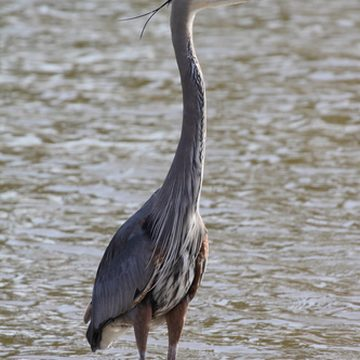
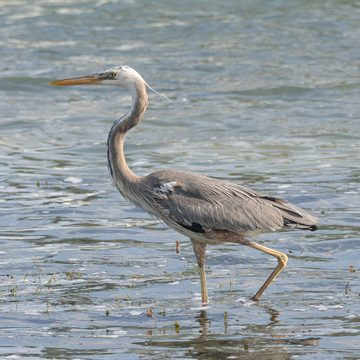
Heron: a photo with the whole bird in frame, and the drawing pulled in so the beak fits the circle

diff --git a/src/components/characters/xml.ts b/src/components/characters/xml.ts
@@ -746,21 +746,21 @@ export const characterXml: Record<string, CharacterFrame[]> = {
   "great-blue-heron": [
     {
       "mood": "hello",
-      "open": "<svg xmlns=\"http://www.w3.org/2000/svg\" viewBox=\"0 0 400 400\"><rect width=\"400\" height=\"400\" fill=\"#FFE3EC\"/><g transform=\"rotate(0 200 220)\"><path d=\"M222 276 L214 346 M252 278 L258 346\" stroke=\"#1A1A2E\" stroke-width=\"16\" stroke-linecap=\"round\"/> <path d=\"M222 276 L214 346 M252 278 L258 346\" stroke=\"#8A7356\" stroke-width=\"7\" stroke-linecap=\"round\"/> <g transform=\"translate(9,9)\" fill=\"#1A1A2E\" stroke=\"#1A1A2E\" stroke-width=\"10\"><path d=\"M336 226 L386 252 L344 262 Z\"/><path d=\"M150 222 C150 182 210 162 270 168 C330 174 362 208 352 242 C342 272 292 286 232 282 C182 278 150 256 150 222 Z\"/><ellipse cx=\"128\" cy=\"92\" rx=\"40\" ry=\"30\"/></g> <g fill=\"#5E6E8E\" stroke=\"#1A1A2E\" stroke-width=\"10\" stroke-linejoin=\"round\" stroke-linecap=\"round\"><path d=\"M336 226 L386 252 L344 262 Z\"/></g> <g fill=\"#7D8FAE\" stroke=\"#1A1A2E\" stroke-width=\"10\" stroke-linejoin=\"round\" stroke-linecap=\"round\"><path d=\"M150 222 C150 182 210 162 270 168 C330 174 362 208 352 242 C342 272 292 286 232 282 C182 278 150 256 150 222 Z\"/></g> <path d=\"M210 196 C256 182 312 190 340 222 C306 246 252 248 214 236 Z\" fill=\"#5E6E8E\"/> <path d=\"M170 236 C176 252 186 262 200 268 M184 232 C190 248 200 258 214 264\" fill=\"none\" stroke=\"#C9D3E3\" stroke-width=\"7\" stroke-linecap=\"round\"/> <path d=\"M176 210 C138 176 172 136 152 108\" fill=\"none\" stroke=\"#1A1A2E\" stroke-width=\"38\" stroke-linecap=\"round\"/> <path d=\"M176 210 C138 176 172 136 152 108\" fill=\"none\" stroke=\"#B8C3D6\" stroke-width=\"22\" stroke-linecap=\"round\"/> <path d=\"M160 196 C148 180 150 160 156 144\" fill=\"none\" stroke=\"#5E4A3A\" stroke-width=\"5\" stroke-linecap=\"round\" stroke-dasharray=\"8 8\"/> <g fill=\"#F4F2F0\" stroke=\"#1A1A2E\" stroke-width=\"10\" stroke-linejoin=\"round\" stroke-linecap=\"round\"><ellipse cx=\"128\" cy=\"92\" rx=\"40\" ry=\"30\"/></g> <path d=\"M108 74 C130 66 160 70 168 82 C150 82 130 82 112 86 Z\" fill=\"#1A1A2E\"/> <path d=\"M160 80 C186 78 210 86 228 100\" fill=\"none\" stroke=\"#1A1A2E\" stroke-width=\"7\" stroke-linecap=\"round\"/> <circle cx=\"118\" cy=\"92\" r=\"21\" fill=\"#F2E28C\" stroke=\"#1A1A2E\" stroke-width=\"6\"/><circle cx=\"118\" cy=\"92\" r=\"12\" fill=\"#1A1A2E\"/><circle cx=\"113.8\" cy=\"87.44\" r=\"4.08\" fill=\"#fff\"/><circle cx=\"122.56\" cy=\"96.2\" r=\"1.92\" fill=\"#fff\"/> <ellipse cx=\"140\" cy=\"108\" rx=\"12\" ry=\"7\" fill=\"#FF6B9A\"/> <path d=\"M96 88 C80 86 46 92 8 102 C46 108 80 108 98 102 Z\" fill=\"#F2C94C\" stroke=\"#1A1A2E\" stroke-width=\"7\" stroke-linejoin=\"round\"/> <path d=\"M-10 330 Q40 318 90 330 T190 330 T290 330 T390 330 T490 330 V420 H-10 Z\" fill=\"#8FB3E8\" stroke=\"#1A1A2E\" stroke-width=\"8\"/> <path d=\"M60 360 q20 -10 40 0 M260 366 q20 -10 40 0\" fill=\"none\" stroke=\"#F7F5F2\" stroke-width=\"6\" stroke-linecap=\"round\"/> </g></svg>",
-      "shut": "<svg xmlns=\"http://www.w3.org/2000/svg\" viewBox=\"0 0 400 400\"><rect width=\"400\" height=\"400\" fill=\"#FFE3EC\"/><g transform=\"rotate(0 200 220)\"><path d=\"M222 276 L214 346 M252 278 L258 346\" stroke=\"#1A1A2E\" stroke-width=\"16\" stroke-linecap=\"round\"/> <path d=\"M222 276 L214 346 M252 278 L258 346\" stroke=\"#8A7356\" stroke-width=\"7\" stroke-linecap=\"round\"/> <g transform=\"translate(9,9)\" fill=\"#1A1A2E\" stroke=\"#1A1A2E\" stroke-width=\"10\"><path d=\"M336 226 L386 252 L344 262 Z\"/><path d=\"M150 222 C150 182 210 162 270 168 C330 174 362 208 352 242 C342 272 292 286 232 282 C182 278 150 256 150 222 Z\"/><ellipse cx=\"128\" cy=\"92\" rx=\"40\" ry=\"30\"/></g> <g fill=\"#5E6E8E\" stroke=\"#1A1A2E\" stroke-width=\"10\" stroke-linejoin=\"round\" stroke-linecap=\"round\"><path d=\"M336 226 L386 252 L344 262 Z\"/></g> <g fill=\"#7D8FAE\" stroke=\"#1A1A2E\" stroke-width=\"10\" stroke-linejoin=\"round\" stroke-linecap=\"round\"><path d=\"M150 222 C150 182 210 162 270 168 C330 174 362 208 352 242 C342 272 292 286 232 282 C182 278 150 256 150 222 Z\"/></g> <path d=\"M210 196 C256 182 312 190 340 222 C306 246 252 248 214 236 Z\" fill=\"#5E6E8E\"/> <path d=\"M170 236 C176 252 186 262 200 268 M184 232 C190 248 200 258 214 264\" fill=\"none\" stroke=\"#C9D3E3\" stroke-width=\"7\" stroke-linecap=\"round\"/> <path d=\"M176 210 C138 176 172 136 152 108\" fill=\"none\" stroke=\"#1A1A2E\" stroke-width=\"38\" stroke-linecap=\"round\"/> <path d=\"M176 210 C138 176 172 136 152 108\" fill=\"none\" stroke=\"#B8C3D6\" stroke-width=\"22\" stroke-linecap=\"round\"/> <path d=\"M160 196 C148 180 150 160 156 144\" fill=\"none\" stroke=\"#5E4A3A\" stroke-width=\"5\" stroke-linecap=\"round\" stroke-dasharray=\"8 8\"/> <g fill=\"#F4F2F0\" stroke=\"#1A1A2E\" stroke-width=\"10\" stroke-linejoin=\"round\" stroke-linecap=\"round\"><ellipse cx=\"128\" cy=\"92\" rx=\"40\" ry=\"30\"/></g> <path d=\"M108 74 C130 66 160 70 168 82 C150 82 130 82 112 86 Z\" fill=\"#1A1A2E\"/> <path d=\"M160 80 C186 78 210 86 228 100\" fill=\"none\" stroke=\"#1A1A2E\" stroke-width=\"7\" stroke-linecap=\"round\"/> <circle cx=\"118\" cy=\"92\" r=\"22\" fill=\"#F4F2F0\"/><path d=\"M106 94 Q118 102.4 130 94\" fill=\"none\" stroke=\"#1A1A2E\" stroke-width=\"6\" stroke-linecap=\"round\"/> <ellipse cx=\"140\" cy=\"108\" rx=\"12\" ry=\"7\" fill=\"#FF6B9A\"/> <path d=\"M96 88 C80 86 46 92 8 102 C46 108 80 108 98 102 Z\" fill=\"#F2C94C\" stroke=\"#1A1A2E\" stroke-width=\"7\" stroke-linejoin=\"round\"/> <path d=\"M-10 330 Q40 318 90 330 T190 330 T290 330 T390 330 T490 330 V420 H-10 Z\" fill=\"#8FB3E8\" stroke=\"#1A1A2E\" stroke-width=\"8\"/> <path d=\"M60 360 q20 -10 40 0 M260 366 q20 -10 40 0\" fill=\"none\" stroke=\"#F7F5F2\" stroke-width=\"6\" stroke-linecap=\"round\"/> </g></svg>"
+      "open": "<svg xmlns=\"http://www.w3.org/2000/svg\" viewBox=\"0 0 400 400\"><rect width=\"400\" height=\"400\" fill=\"#FFE3EC\"/><g transform=\"rotate(0 200 220)\"><g transform=\"translate(44 38) scale(0.84)\"> <path d=\"M222 276 L214 346 M252 278 L258 346\" stroke=\"#1A1A2E\" stroke-width=\"16\" stroke-linecap=\"round\"/> <path d=\"M222 276 L214 346 M252 278 L258 346\" stroke=\"#8A7356\" stroke-width=\"7\" stroke-linecap=\"round\"/> <g transform=\"translate(9,9)\" fill=\"#1A1A2E\" stroke=\"#1A1A2E\" stroke-width=\"10\"><path d=\"M336 226 L386 252 L344 262 Z\"/><path d=\"M150 222 C150 182 210 162 270 168 C330 174 362 208 352 242 C342 272 292 286 232 282 C182 278 150 256 150 222 Z\"/><ellipse cx=\"128\" cy=\"92\" rx=\"40\" ry=\"30\"/></g> <g fill=\"#5E6E8E\" stroke=\"#1A1A2E\" stroke-width=\"10\" stroke-linejoin=\"round\" stroke-linecap=\"round\"><path d=\"M336 226 L386 252 L344 262 Z\"/></g> <g fill=\"#7D8FAE\" stroke=\"#1A1A2E\" stroke-width=\"10\" stroke-linejoin=\"round\" stroke-linecap=\"round\"><path d=\"M150 222 C150 182 210 162 270 168 C330 174 362 208 352 242 C342 272 292 286 232 282 C182 278 150 256 150 222 Z\"/></g> <path d=\"M210 196 C256 182 312 190 340 222 C306 246 252 248 214 236 Z\" fill=\"#5E6E8E\"/> <path d=\"M170 236 C176 252 186 262 200 268 M184 232 C190 248 200 258 214 264\" fill=\"none\" stroke=\"#C9D3E3\" stroke-width=\"7\" stroke-linecap=\"round\"/> <path d=\"M176 210 C138 176 172 136 152 108\" fill=\"none\" stroke=\"#1A1A2E\" stroke-width=\"38\" stroke-linecap=\"round\"/> <path d=\"M176 210 C138 176 172 136 152 108\" fill=\"none\" stroke=\"#B8C3D6\" stroke-width=\"22\" stroke-linecap=\"round\"/> <path d=\"M160 196 C148 180 150 160 156 144\" fill=\"none\" stroke=\"#5E4A3A\" stroke-width=\"5\" stroke-linecap=\"round\" stroke-dasharray=\"8 8\"/> <g fill=\"#F4F2F0\" stroke=\"#1A1A2E\" stroke-width=\"10\" stroke-linejoin=\"round\" stroke-linecap=\"round\"><ellipse cx=\"128\" cy=\"92\" rx=\"40\" ry=\"30\"/></g> <path d=\"M108 74 C130 66 160 70 168 82 C150 82 130 82 112 86 Z\" fill=\"#1A1A2E\"/> <path d=\"M160 80 C186 78 210 86 228 100\" fill=\"none\" stroke=\"#1A1A2E\" stroke-width=\"7\" stroke-linecap=\"round\"/> <circle cx=\"118\" cy=\"92\" r=\"21\" fill=\"#F2E28C\" stroke=\"#1A1A2E\" stroke-width=\"6\"/><circle cx=\"118\" cy=\"92\" r=\"12\" fill=\"#1A1A2E\"/><circle cx=\"113.8\" cy=\"87.44\" r=\"4.08\" fill=\"#fff\"/><circle cx=\"122.56\" cy=\"96.2\" r=\"1.92\" fill=\"#fff\"/> <ellipse cx=\"140\" cy=\"108\" rx=\"12\" ry=\"7\" fill=\"#FF6B9A\"/> <path d=\"M96 88 C80 86 46 92 8 102 C46 108 80 108 98 102 Z\" fill=\"#F2C94C\" stroke=\"#1A1A2E\" stroke-width=\"7\" stroke-linejoin=\"round\"/> </g> <path d=\"M-10 330 Q40 318 90 330 T190 330 T290 330 T390 330 T490 330 V420 H-10 Z\" fill=\"#8FB3E8\" stroke=\"#1A1A2E\" stroke-width=\"8\"/> <path d=\"M60 360 q20 -10 40 0 M260 366 q20 -10 40 0\" fill=\"none\" stroke=\"#F7F5F2\" stroke-width=\"6\" stroke-linecap=\"round\"/> </g></svg>",
+      "shut": "<svg xmlns=\"http://www.w3.org/2000/svg\" viewBox=\"0 0 400 400\"><rect width=\"400\" height=\"400\" fill=\"#FFE3EC\"/><g transform=\"rotate(0 200 220)\"><g transform=\"translate(44 38) scale(0.84)\"> <path d=\"M222 276 L214 346 M252 278 L258 346\" stroke=\"#1A1A2E\" stroke-width=\"16\" stroke-linecap=\"round\"/> <path d=\"M222 276 L214 346 M252 278 L258 346\" stroke=\"#8A7356\" stroke-width=\"7\" stroke-linecap=\"round\"/> <g transform=\"translate(9,9)\" fill=\"#1A1A2E\" stroke=\"#1A1A2E\" stroke-width=\"10\"><path d=\"M336 226 L386 252 L344 262 Z\"/><path d=\"M150 222 C150 182 210 162 270 168 C330 174 362 208 352 242 C342 272 292 286 232 282 C182 278 150 256 150 222 Z\"/><ellipse cx=\"128\" cy=\"92\" rx=\"40\" ry=\"30\"/></g> <g fill=\"#5E6E8E\" stroke=\"#1A1A2E\" stroke-width=\"10\" stroke-linejoin=\"round\" stroke-linecap=\"round\"><path d=\"M336 226 L386 252 L344 262 Z\"/></g> <g fill=\"#7D8FAE\" stroke=\"#1A1A2E\" stroke-width=\"10\" stroke-linejoin=\"round\" stroke-linecap=\"round\"><path d=\"M150 222 C150 182 210 162 270 168 C330 174 362 208 352 242 C342 272 292 286 232 282 C182 278 150 256 150 222 Z\"/></g> <path d=\"M210 196 C256 182 312 190 340 222 C306 246 252 248 214 236 Z\" fill=\"#5E6E8E\"/> <path d=\"M170 236 C176 252 186 262 200 268 M184 232 C190 248 200 258 214 264\" fill=\"none\" stroke=\"#C9D3E3\" stroke-width=\"7\" stroke-linecap=\"round\"/> <path d=\"M176 210 C138 176 172 136 152 108\" fill=\"none\" stroke=\"#1A1A2E\" stroke-width=\"38\" stroke-linecap=\"round\"/> <path d=\"M176 210 C138 176 172 136 152 108\" fill=\"none\" stroke=\"#B8C3D6\" stroke-width=\"22\" stroke-linecap=\"round\"/> <path d=\"M160 196 C148 180 150 160 156 144\" fill=\"none\" stroke=\"#5E4A3A\" stroke-width=\"5\" stroke-linecap=\"round\" stroke-dasharray=\"8 8\"/> <g fill=\"#F4F2F0\" stroke=\"#1A1A2E\" stroke-width=\"10\" stroke-linejoin=\"round\" stroke-linecap=\"round\"><ellipse cx=\"128\" cy=\"92\" rx=\"40\" ry=\"30\"/></g> <path d=\"M108 74 C130 66 160 70 168 82 C150 82 130 82 112 86 Z\" fill=\"#1A1A2E\"/> <path d=\"M160 80 C186 78 210 86 228 100\" fill=\"none\" stroke=\"#1A1A2E\" stroke-width=\"7\" stroke-linecap=\"round\"/> <circle cx=\"118\" cy=\"92\" r=\"22\" fill=\"#F4F2F0\"/><path d=\"M106 94 Q118 102.4 130 94\" fill=\"none\" stroke=\"#1A1A2E\" stroke-width=\"6\" stroke-linecap=\"round\"/> <ellipse cx=\"140\" cy=\"108\" rx=\"12\" ry=\"7\" fill=\"#FF6B9A\"/> <path d=\"M96 88 C80 86 46 92 8 102 C46 108 80 108 98 102 Z\" fill=\"#F2C94C\" stroke=\"#1A1A2E\" stroke-width=\"7\" stroke-linejoin=\"round\"/> </g> <path d=\"M-10 330 Q40 318 90 330 T190 330 T290 330 T390 330 T490 330 V420 H-10 Z\" fill=\"#8FB3E8\" stroke=\"#1A1A2E\" stroke-width=\"8\"/> <path d=\"M60 360 q20 -10 40 0 M260 366 q20 -10 40 0\" fill=\"none\" stroke=\"#F7F5F2\" stroke-width=\"6\" stroke-linecap=\"round\"/> </g></svg>"
     },
     {
       "mood": "snack",
-      "open": "<svg xmlns=\"http://www.w3.org/2000/svg\" viewBox=\"0 0 400 400\"><rect width=\"400\" height=\"400\" fill=\"#FFE3EC\"/><g transform=\"rotate(0 200 220)\"><path d=\"M222 276 L214 346 M252 278 L258 346\" stroke=\"#1A1A2E\" stroke-width=\"16\" stroke-linecap=\"round\"/> <path d=\"M222 276 L214 346 M252 278 L258 346\" stroke=\"#8A7356\" stroke-width=\"7\" stroke-linecap=\"round\"/> <g transform=\"translate(9,9)\" fill=\"#1A1A2E\" stroke=\"#1A1A2E\" stroke-width=\"10\"><path d=\"M336 226 L386 252 L344 262 Z\"/><path d=\"M150 222 C150 182 210 162 270 168 C330 174 362 208 352 242 C342 272 292 286 232 282 C182 278 150 256 150 222 Z\"/><ellipse cx=\"128\" cy=\"92\" rx=\"40\" ry=\"30\"/></g> <g fill=\"#5E6E8E\" stroke=\"#1A1A2E\" stroke-width=\"10\" stroke-linejoin=\"round\" stroke-linecap=\"round\"><path d=\"M336 226 L386 252 L344 262 Z\"/></g> <g fill=\"#7D8FAE\" stroke=\"#1A1A2E\" stroke-width=\"10\" stroke-linejoin=\"round\" stroke-linecap=\"round\"><path d=\"M150 222 C150 182 210 162 270 168 C330 174 362 208 352 242 C342 272 292 286 232 282 C182 278 150 256 150 222 Z\"/></g> <path d=\"M210 196 C256 182 312 190 340 222 C306 246 252 248 214 236 Z\" fill=\"#5E6E8E\"/> <path d=\"M170 236 C176 252 186 262 200 268 M184 232 C190 248 200 258 214 264\" fill=\"none\" stroke=\"#C9D3E3\" stroke-width=\"7\" stroke-linecap=\"round\"/> <path d=\"M176 210 C138 176 172 136 152 108\" fill=\"none\" stroke=\"#1A1A2E\" stroke-width=\"38\" stroke-linecap=\"round\"/> <path d=\"M176 210 C138 176 172 136 152 108\" fill=\"none\" stroke=\"#B8C3D6\" stroke-width=\"22\" stroke-linecap=\"round\"/> <path d=\"M160 196 C148 180 150 160 156 144\" fill=\"none\" stroke=\"#5E4A3A\" stroke-width=\"5\" stroke-linecap=\"round\" stroke-dasharray=\"8 8\"/> <g fill=\"#F4F2F0\" stroke=\"#1A1A2E\" stroke-width=\"10\" stroke-linejoin=\"round\" stroke-linecap=\"round\"><ellipse cx=\"128\" cy=\"92\" rx=\"40\" ry=\"30\"/></g> <path d=\"M108 74 C130 66 160 70 168 82 C150 82 130 82 112 86 Z\" fill=\"#1A1A2E\"/> <path d=\"M160 80 C186 78 210 86 228 100\" fill=\"none\" stroke=\"#1A1A2E\" stroke-width=\"7\" stroke-linecap=\"round\"/> <circle cx=\"118\" cy=\"92\" r=\"21\" fill=\"#F2E28C\" stroke=\"#1A1A2E\" stroke-width=\"6\"/><circle cx=\"118\" cy=\"92\" r=\"12\" fill=\"#1A1A2E\"/><circle cx=\"113.8\" cy=\"87.44\" r=\"4.08\" fill=\"#fff\"/><circle cx=\"122.56\" cy=\"96.2\" r=\"1.92\" fill=\"#fff\"/> <ellipse cx=\"140\" cy=\"108\" rx=\"12\" ry=\"7\" fill=\"#FF6B9A\"/> <path d=\"M96 88 C80 86 46 92 8 102 C46 108 80 108 98 102 Z\" fill=\"#F2C94C\" stroke=\"#1A1A2E\" stroke-width=\"7\" stroke-linejoin=\"round\"/> <g transform=\"rotate(-14 24 116)\"><path d=\"M0 116 C10 104 34 104 46 116 C34 128 10 128 0 116 Z M46 116 L60 106 L60 126 Z\" fill=\"#B4C3D6\" stroke=\"#1A1A2E\" stroke-width=\"6\" stroke-linejoin=\"round\"/><circle cx=\"10\" cy=\"114\" r=\"3\" fill=\"#1A1A2E\"/></g> <path d=\"M-10 330 Q40 318 90 330 T190 330 T290 330 T390 330 T490 330 V420 H-10 Z\" fill=\"#8FB3E8\" stroke=\"#1A1A2E\" stroke-width=\"8\"/> <path d=\"M60 360 q20 -10 40 0 M260 366 q20 -10 40 0\" fill=\"none\" stroke=\"#F7F5F2\" stroke-width=\"6\" stroke-linecap=\"round\"/> </g></svg>",
-      "shut": "<svg xmlns=\"http://www.w3.org/2000/svg\" viewBox=\"0 0 400 400\"><rect width=\"400\" height=\"400\" fill=\"#FFE3EC\"/><g transform=\"rotate(0 200 220)\"><path d=\"M222 276 L214 346 M252 278 L258 346\" stroke=\"#1A1A2E\" stroke-width=\"16\" stroke-linecap=\"round\"/> <path d=\"M222 276 L214 346 M252 278 L258 346\" stroke=\"#8A7356\" stroke-width=\"7\" stroke-linecap=\"round\"/> <g transform=\"translate(9,9)\" fill=\"#1A1A2E\" stroke=\"#1A1A2E\" stroke-width=\"10\"><path d=\"M336 226 L386 252 L344 262 Z\"/><path d=\"M150 222 C150 182 210 162 270 168 C330 174 362 208 352 242 C342 272 292 286 232 282 C182 278 150 256 150 222 Z\"/><ellipse cx=\"128\" cy=\"92\" rx=\"40\" ry=\"30\"/></g> <g fill=\"#5E6E8E\" stroke=\"#1A1A2E\" stroke-width=\"10\" stroke-linejoin=\"round\" stroke-linecap=\"round\"><path d=\"M336 226 L386 252 L344 262 Z\"/></g> <g fill=\"#7D8FAE\" stroke=\"#1A1A2E\" stroke-width=\"10\" stroke-linejoin=\"round\" stroke-linecap=\"round\"><path d=\"M150 222 C150 182 210 162 270 168 C330 174 362 208 352 242 C342 272 292 286 232 282 C182 278 150 256 150 222 Z\"/></g> <path d=\"M210 196 C256 182 312 190 340 222 C306 246 252 248 214 236 Z\" fill=\"#5E6E8E\"/> <path d=\"M170 236 C176 252 186 262 200 268 M184 232 C190 248 200 258 214 264\" fill=\"none\" stroke=\"#C9D3E3\" stroke-width=\"7\" stroke-linecap=\"round\"/> <path d=\"M176 210 C138 176 172 136 152 108\" fill=\"none\" stroke=\"#1A1A2E\" stroke-width=\"38\" stroke-linecap=\"round\"/> <path d=\"M176 210 C138 176 172 136 152 108\" fill=\"none\" stroke=\"#B8C3D6\" stroke-width=\"22\" stroke-linecap=\"round\"/> <path d=\"M160 196 C148 180 150 160 156 144\" fill=\"none\" stroke=\"#5E4A3A\" stroke-width=\"5\" stroke-linecap=\"round\" stroke-dasharray=\"8 8\"/> <g fill=\"#F4F2F0\" stroke=\"#1A1A2E\" stroke-width=\"10\" stroke-linejoin=\"round\" stroke-linecap=\"round\"><ellipse cx=\"128\" cy=\"92\" rx=\"40\" ry=\"30\"/></g> <path d=\"M108 74 C130 66 160 70 168 82 C150 82 130 82 112 86 Z\" fill=\"#1A1A2E\"/> <path d=\"M160 80 C186 78 210 86 228 100\" fill=\"none\" stroke=\"#1A1A2E\" stroke-width=\"7\" stroke-linecap=\"round\"/> <circle cx=\"118\" cy=\"92\" r=\"22\" fill=\"#F4F2F0\"/><path d=\"M106 94 Q118 102.4 130 94\" fill=\"none\" stroke=\"#1A1A2E\" stroke-width=\"6\" stroke-linecap=\"round\"/> <ellipse cx=\"140\" cy=\"108\" rx=\"12\" ry=\"7\" fill=\"#FF6B9A\"/> <path d=\"M96 88 C80 86 46 92 8 102 C46 108 80 108 98 102 Z\" fill=\"#F2C94C\" stroke=\"#1A1A2E\" stroke-width=\"7\" stroke-linejoin=\"round\"/> <g transform=\"rotate(-14 24 116)\"><path d=\"M0 116 C10 104 34 104 46 116 C34 128 10 128 0 116 Z M46 116 L60 106 L60 126 Z\" fill=\"#B4C3D6\" stroke=\"#1A1A2E\" stroke-width=\"6\" stroke-linejoin=\"round\"/><circle cx=\"10\" cy=\"114\" r=\"3\" fill=\"#1A1A2E\"/></g> <path d=\"M-10 330 Q40 318 90 330 T190 330 T290 330 T390 330 T490 330 V420 H-10 Z\" fill=\"#8FB3E8\" stroke=\"#1A1A2E\" stroke-width=\"8\"/> <path d=\"M60 360 q20 -10 40 0 M260 366 q20 -10 40 0\" fill=\"none\" stroke=\"#F7F5F2\" stroke-width=\"6\" stroke-linecap=\"round\"/> </g></svg>"
+      "open": "<svg xmlns=\"http://www.w3.org/2000/svg\" viewBox=\"0 0 400 400\"><rect width=\"400\" height=\"400\" fill=\"#FFE3EC\"/><g transform=\"rotate(0 200 220)\"><g transform=\"translate(44 38) scale(0.84)\"> <path d=\"M222 276 L214 346 M252 278 L258 346\" stroke=\"#1A1A2E\" stroke-width=\"16\" stroke-linecap=\"round\"/> <path d=\"M222 276 L214 346 M252 278 L258 346\" stroke=\"#8A7356\" stroke-width=\"7\" stroke-linecap=\"round\"/> <g transform=\"translate(9,9)\" fill=\"#1A1A2E\" stroke=\"#1A1A2E\" stroke-width=\"10\"><path d=\"M336 226 L386 252 L344 262 Z\"/><path d=\"M150 222 C150 182 210 162 270 168 C330 174 362 208 352 242 C342 272 292 286 232 282 C182 278 150 256 150 222 Z\"/><ellipse cx=\"128\" cy=\"92\" rx=\"40\" ry=\"30\"/></g> <g fill=\"#5E6E8E\" stroke=\"#1A1A2E\" stroke-width=\"10\" stroke-linejoin=\"round\" stroke-linecap=\"round\"><path d=\"M336 226 L386 252 L344 262 Z\"/></g> <g fill=\"#7D8FAE\" stroke=\"#1A1A2E\" stroke-width=\"10\" stroke-linejoin=\"round\" stroke-linecap=\"round\"><path d=\"M150 222 C150 182 210 162 270 168 C330 174 362 208 352 242 C342 272 292 286 232 282 C182 278 150 256 150 222 Z\"/></g> <path d=\"M210 196 C256 182 312 190 340 222 C306 246 252 248 214 236 Z\" fill=\"#5E6E8E\"/> <path d=\"M170 236 C176 252 186 262 200 268 M184 232 C190 248 200 258 214 264\" fill=\"none\" stroke=\"#C9D3E3\" stroke-width=\"7\" stroke-linecap=\"round\"/> <path d=\"M176 210 C138 176 172 136 152 108\" fill=\"none\" stroke=\"#1A1A2E\" stroke-width=\"38\" stroke-linecap=\"round\"/> <path d=\"M176 210 C138 176 172 136 152 108\" fill=\"none\" stroke=\"#B8C3D6\" stroke-width=\"22\" stroke-linecap=\"round\"/> <path d=\"M160 196 C148 180 150 160 156 144\" fill=\"none\" stroke=\"#5E4A3A\" stroke-width=\"5\" stroke-linecap=\"round\" stroke-dasharray=\"8 8\"/> <g fill=\"#F4F2F0\" stroke=\"#1A1A2E\" stroke-width=\"10\" stroke-linejoin=\"round\" stroke-linecap=\"round\"><ellipse cx=\"128\" cy=\"92\" rx=\"40\" ry=\"30\"/></g> <path d=\"M108 74 C130 66 160 70 168 82 C150 82 130 82 112 86 Z\" fill=\"#1A1A2E\"/> <path d=\"M160 80 C186 78 210 86 228 100\" fill=\"none\" stroke=\"#1A1A2E\" stroke-width=\"7\" stroke-linecap=\"round\"/> <circle cx=\"118\" cy=\"92\" r=\"21\" fill=\"#F2E28C\" stroke=\"#1A1A2E\" stroke-width=\"6\"/><circle cx=\"118\" cy=\"92\" r=\"12\" fill=\"#1A1A2E\"/><circle cx=\"113.8\" cy=\"87.44\" r=\"4.08\" fill=\"#fff\"/><circle cx=\"122.56\" cy=\"96.2\" r=\"1.92\" fill=\"#fff\"/> <ellipse cx=\"140\" cy=\"108\" rx=\"12\" ry=\"7\" fill=\"#FF6B9A\"/> <path d=\"M96 88 C80 86 46 92 8 102 C46 108 80 108 98 102 Z\" fill=\"#F2C94C\" stroke=\"#1A1A2E\" stroke-width=\"7\" stroke-linejoin=\"round\"/> <g transform=\"rotate(-14 24 116)\"><path d=\"M0 116 C10 104 34 104 46 116 C34 128 10 128 0 116 Z M46 116 L60 106 L60 126 Z\" fill=\"#B4C3D6\" stroke=\"#1A1A2E\" stroke-width=\"6\" stroke-linejoin=\"round\"/><circle cx=\"10\" cy=\"114\" r=\"3\" fill=\"#1A1A2E\"/></g> </g> <path d=\"M-10 330 Q40 318 90 330 T190 330 T290 330 T390 330 T490 330 V420 H-10 Z\" fill=\"#8FB3E8\" stroke=\"#1A1A2E\" stroke-width=\"8\"/> <path d=\"M60 360 q20 -10 40 0 M260 366 q20 -10 40 0\" fill=\"none\" stroke=\"#F7F5F2\" stroke-width=\"6\" stroke-linecap=\"round\"/> </g></svg>",
+      "shut": "<svg xmlns=\"http://www.w3.org/2000/svg\" viewBox=\"0 0 400 400\"><rect width=\"400\" height=\"400\" fill=\"#FFE3EC\"/><g transform=\"rotate(0 200 220)\"><g transform=\"translate(44 38) scale(0.84)\"> <path d=\"M222 276 L214 346 M252 278 L258 346\" stroke=\"#1A1A2E\" stroke-width=\"16\" stroke-linecap=\"round\"/> <path d=\"M222 276 L214 346 M252 278 L258 346\" stroke=\"#8A7356\" stroke-width=\"7\" stroke-linecap=\"round\"/> <g transform=\"translate(9,9)\" fill=\"#1A1A2E\" stroke=\"#1A1A2E\" stroke-width=\"10\"><path d=\"M336 226 L386 252 L344 262 Z\"/><path d=\"M150 222 C150 182 210 162 270 168 C330 174 362 208 352 242 C342 272 292 286 232 282 C182 278 150 256 150 222 Z\"/><ellipse cx=\"128\" cy=\"92\" rx=\"40\" ry=\"30\"/></g> <g fill=\"#5E6E8E\" stroke=\"#1A1A2E\" stroke-width=\"10\" stroke-linejoin=\"round\" stroke-linecap=\"round\"><path d=\"M336 226 L386 252 L344 262 Z\"/></g> <g fill=\"#7D8FAE\" stroke=\"#1A1A2E\" stroke-width=\"10\" stroke-linejoin=\"round\" stroke-linecap=\"round\"><path d=\"M150 222 C150 182 210 162 270 168 C330 174 362 208 352 242 C342 272 292 286 232 282 C182 278 150 256 150 222 Z\"/></g> <path d=\"M210 196 C256 182 312 190 340 222 C306 246 252 248 214 236 Z\" fill=\"#5E6E8E\"/> <path d=\"M170 236 C176 252 186 262 200 268 M184 232 C190 248 200 258 214 264\" fill=\"none\" stroke=\"#C9D3E3\" stroke-width=\"7\" stroke-linecap=\"round\"/> <path d=\"M176 210 C138 176 172 136 152 108\" fill=\"none\" stroke=\"#1A1A2E\" stroke-width=\"38\" stroke-linecap=\"round\"/> <path d=\"M176 210 C138 176 172 136 152 108\" fill=\"none\" stroke=\"#B8C3D6\" stroke-width=\"22\" stroke-linecap=\"round\"/> <path d=\"M160 196 C148 180 150 160 156 144\" fill=\"none\" stroke=\"#5E4A3A\" stroke-width=\"5\" stroke-linecap=\"round\" stroke-dasharray=\"8 8\"/> <g fill=\"#F4F2F0\" stroke=\"#1A1A2E\" stroke-width=\"10\" stroke-linejoin=\"round\" stroke-linecap=\"round\"><ellipse cx=\"128\" cy=\"92\" rx=\"40\" ry=\"30\"/></g> <path d=\"M108 74 C130 66 160 70 168 82 C150 82 130 82 112 86 Z\" fill=\"#1A1A2E\"/> <path d=\"M160 80 C186 78 210 86 228 100\" fill=\"none\" stroke=\"#1A1A2E\" stroke-width=\"7\" stroke-linecap=\"round\"/> <circle cx=\"118\" cy=\"92\" r=\"22\" fill=\"#F4F2F0\"/><path d=\"M106 94 Q118 102.4 130 94\" fill=\"none\" stroke=\"#1A1A2E\" stroke-width=\"6\" stroke-linecap=\"round\"/> <ellipse cx=\"140\" cy=\"108\" rx=\"12\" ry=\"7\" fill=\"#FF6B9A\"/> <path d=\"M96 88 C80 86 46 92 8 102 C46 108 80 108 98 102 Z\" fill=\"#F2C94C\" stroke=\"#1A1A2E\" stroke-width=\"7\" stroke-linejoin=\"round\"/> <g transform=\"rotate(-14 24 116)\"><path d=\"M0 116 C10 104 34 104 46 116 C34 128 10 128 0 116 Z M46 116 L60 106 L60 126 Z\" fill=\"#B4C3D6\" stroke=\"#1A1A2E\" stroke-width=\"6\" stroke-linejoin=\"round\"/><circle cx=\"10\" cy=\"114\" r=\"3\" fill=\"#1A1A2E\"/></g> </g> <path d=\"M-10 330 Q40 318 90 330 T190 330 T290 330 T390 330 T490 330 V420 H-10 Z\" fill=\"#8FB3E8\" stroke=\"#1A1A2E\" stroke-width=\"8\"/> <path d=\"M60 360 q20 -10 40 0 M260 366 q20 -10 40 0\" fill=\"none\" stroke=\"#F7F5F2\" stroke-width=\"6\" stroke-linecap=\"round\"/> </g></svg>"
     },
     {
       "mood": "happy",
-      "open": "<svg xmlns=\"http://www.w3.org/2000/svg\" viewBox=\"0 0 400 400\"><rect width=\"400\" height=\"400\" fill=\"#FFE3EC\"/><g transform=\"rotate(0 200 220)\"><path d=\"M222 276 L214 346 M252 278 L258 346\" stroke=\"#1A1A2E\" stroke-width=\"16\" stroke-linecap=\"round\"/> <path d=\"M222 276 L214 346 M252 278 L258 346\" stroke=\"#8A7356\" stroke-width=\"7\" stroke-linecap=\"round\"/> <g transform=\"translate(9,9)\" fill=\"#1A1A2E\" stroke=\"#1A1A2E\" stroke-width=\"10\"><path d=\"M336 226 L386 252 L344 262 Z\"/><path d=\"M150 222 C150 182 210 162 270 168 C330 174 362 208 352 242 C342 272 292 286 232 282 C182 278 150 256 150 222 Z\"/><ellipse cx=\"128\" cy=\"92\" rx=\"40\" ry=\"30\"/></g> <g fill=\"#5E6E8E\" stroke=\"#1A1A2E\" stroke-width=\"10\" stroke-linejoin=\"round\" stroke-linecap=\"round\"><path d=\"M336 226 L386 252 L344 262 Z\"/></g> <g fill=\"#7D8FAE\" stroke=\"#1A1A2E\" stroke-width=\"10\" stroke-linejoin=\"round\" stroke-linecap=\"round\"><path d=\"M150 222 C150 182 210 162 270 168 C330 174 362 208 352 242 C342 272 292 286 232 282 C182 278 150 256 150 222 Z\"/></g> <path d=\"M210 196 C256 182 312 190 340 222 C306 246 252 248 214 236 Z\" fill=\"#5E6E8E\"/> <path d=\"M170 236 C176 252 186 262 200 268 M184 232 C190 248 200 258 214 264\" fill=\"none\" stroke=\"#C9D3E3\" stroke-width=\"7\" stroke-linecap=\"round\"/> <path d=\"M176 210 C138 176 172 136 152 108\" fill=\"none\" stroke=\"#1A1A2E\" stroke-width=\"38\" stroke-linecap=\"round\"/> <path d=\"M176 210 C138 176 172 136 152 108\" fill=\"none\" stroke=\"#B8C3D6\" stroke-width=\"22\" stroke-linecap=\"round\"/> <path d=\"M160 196 C148 180 150 160 156 144\" fill=\"none\" stroke=\"#5E4A3A\" stroke-width=\"5\" stroke-linecap=\"round\" stroke-dasharray=\"8 8\"/> <g fill=\"#F4F2F0\" stroke=\"#1A1A2E\" stroke-width=\"10\" stroke-linejoin=\"round\" stroke-linecap=\"round\"><ellipse cx=\"128\" cy=\"92\" rx=\"40\" ry=\"30\"/></g> <path d=\"M108 74 C130 66 160 70 168 82 C150 82 130 82 112 86 Z\" fill=\"#1A1A2E\"/> <path d=\"M160 80 C186 78 210 86 228 100\" fill=\"none\" stroke=\"#1A1A2E\" stroke-width=\"7\" stroke-linecap=\"round\"/> <circle cx=\"118\" cy=\"92\" r=\"22\" fill=\"#F4F2F0\"/><path d=\"M106 94 Q118 83.2 130 94\" fill=\"none\" stroke=\"#1A1A2E\" stroke-width=\"6\" stroke-linecap=\"round\"/> <ellipse cx=\"140\" cy=\"108\" rx=\"12\" ry=\"7\" fill=\"#FF6B9A\"/> <path d=\"M96 88 C80 86 46 92 8 102 C46 108 80 108 98 102 Z\" fill=\"#F2C94C\" stroke=\"#1A1A2E\" stroke-width=\"7\" stroke-linejoin=\"round\"/> <path d=\"M-10 330 Q40 318 90 330 T190 330 T290 330 T390 330 T490 330 V420 H-10 Z\" fill=\"#8FB3E8\" stroke=\"#1A1A2E\" stroke-width=\"8\"/> <path d=\"M60 360 q20 -10 40 0 M260 366 q20 -10 40 0\" fill=\"none\" stroke=\"#F7F5F2\" stroke-width=\"6\" stroke-linecap=\"round\"/> <path d=\"M300 63.8 C300 50 277 50 277 63.8 C277 77.6 300 86.80000000000001 300 96 C300 86.80000000000001 323 77.6 323 63.8 C323 50 300 50 300 63.8 Z\" fill=\"#FF6B9A\" stroke=\"#1A1A2E\" stroke-width=\"6\" stroke-linejoin=\"round\"/><path d=\"M352 121 C352 112 337 112 337 121 C337 130 352 136 352 142 C352 136 367 130 367 121 C367 112 352 112 352 121 Z\" fill=\"#FF6B9A\" stroke=\"#1A1A2E\" stroke-width=\"6\" stroke-linejoin=\"round\"/></g></svg>"
+      "open": "<svg xmlns=\"http://www.w3.org/2000/svg\" viewBox=\"0 0 400 400\"><rect width=\"400\" height=\"400\" fill=\"#FFE3EC\"/><g transform=\"rotate(0 200 220)\"><g transform=\"translate(44 38) scale(0.84)\"> <path d=\"M222 276 L214 346 M252 278 L258 346\" stroke=\"#1A1A2E\" stroke-width=\"16\" stroke-linecap=\"round\"/> <path d=\"M222 276 L214 346 M252 278 L258 346\" stroke=\"#8A7356\" stroke-width=\"7\" stroke-linecap=\"round\"/> <g transform=\"translate(9,9)\" fill=\"#1A1A2E\" stroke=\"#1A1A2E\" stroke-width=\"10\"><path d=\"M336 226 L386 252 L344 262 Z\"/><path d=\"M150 222 C150 182 210 162 270 168 C330 174 362 208 352 242 C342 272 292 286 232 282 C182 278 150 256 150 222 Z\"/><ellipse cx=\"128\" cy=\"92\" rx=\"40\" ry=\"30\"/></g> <g fill=\"#5E6E8E\" stroke=\"#1A1A2E\" stroke-width=\"10\" stroke-linejoin=\"round\" stroke-linecap=\"round\"><path d=\"M336 226 L386 252 L344 262 Z\"/></g> <g fill=\"#7D8FAE\" stroke=\"#1A1A2E\" stroke-width=\"10\" stroke-linejoin=\"round\" stroke-linecap=\"round\"><path d=\"M150 222 C150 182 210 162 270 168 C330 174 362 208 352 242 C342 272 292 286 232 282 C182 278 150 256 150 222 Z\"/></g> <path d=\"M210 196 C256 182 312 190 340 222 C306 246 252 248 214 236 Z\" fill=\"#5E6E8E\"/> <path d=\"M170 236 C176 252 186 262 200 268 M184 232 C190 248 200 258 214 264\" fill=\"none\" stroke=\"#C9D3E3\" stroke-width=\"7\" stroke-linecap=\"round\"/> <path d=\"M176 210 C138 176 172 136 152 108\" fill=\"none\" stroke=\"#1A1A2E\" stroke-width=\"38\" stroke-linecap=\"round\"/> <path d=\"M176 210 C138 176 172 136 152 108\" fill=\"none\" stroke=\"#B8C3D6\" stroke-width=\"22\" stroke-linecap=\"round\"/> <path d=\"M160 196 C148 180 150 160 156 144\" fill=\"none\" stroke=\"#5E4A3A\" stroke-width=\"5\" stroke-linecap=\"round\" stroke-dasharray=\"8 8\"/> <g fill=\"#F4F2F0\" stroke=\"#1A1A2E\" stroke-width=\"10\" stroke-linejoin=\"round\" stroke-linecap=\"round\"><ellipse cx=\"128\" cy=\"92\" rx=\"40\" ry=\"30\"/></g> <path d=\"M108 74 C130 66 160 70 168 82 C150 82 130 82 112 86 Z\" fill=\"#1A1A2E\"/> <path d=\"M160 80 C186 78 210 86 228 100\" fill=\"none\" stroke=\"#1A1A2E\" stroke-width=\"7\" stroke-linecap=\"round\"/> <circle cx=\"118\" cy=\"92\" r=\"22\" fill=\"#F4F2F0\"/><path d=\"M106 94 Q118 83.2 130 94\" fill=\"none\" stroke=\"#1A1A2E\" stroke-width=\"6\" stroke-linecap=\"round\"/> <ellipse cx=\"140\" cy=\"108\" rx=\"12\" ry=\"7\" fill=\"#FF6B9A\"/> <path d=\"M96 88 C80 86 46 92 8 102 C46 108 80 108 98 102 Z\" fill=\"#F2C94C\" stroke=\"#1A1A2E\" stroke-width=\"7\" stroke-linejoin=\"round\"/> </g> <path d=\"M-10 330 Q40 318 90 330 T190 330 T290 330 T390 330 T490 330 V420 H-10 Z\" fill=\"#8FB3E8\" stroke=\"#1A1A2E\" stroke-width=\"8\"/> <path d=\"M60 360 q20 -10 40 0 M260 366 q20 -10 40 0\" fill=\"none\" stroke=\"#F7F5F2\" stroke-width=\"6\" stroke-linecap=\"round\"/> <path d=\"M300 63.8 C300 50 277 50 277 63.8 C277 77.6 300 86.80000000000001 300 96 C300 86.80000000000001 323 77.6 323 63.8 C323 50 300 50 300 63.8 Z\" fill=\"#FF6B9A\" stroke=\"#1A1A2E\" stroke-width=\"6\" stroke-linejoin=\"round\"/><path d=\"M352 121 C352 112 337 112 337 121 C337 130 352 136 352 142 C352 136 367 130 367 121 C367 112 352 112 352 121 Z\" fill=\"#FF6B9A\" stroke=\"#1A1A2E\" stroke-width=\"6\" stroke-linejoin=\"round\"/></g></svg>"
     },
     {
       "mood": "sleepy",
-      "open": "<svg xmlns=\"http://www.w3.org/2000/svg\" viewBox=\"0 0 400 400\"><rect width=\"400\" height=\"400\" fill=\"#FFE3EC\"/><g transform=\"rotate(0 200 220)\"><path d=\"M222 276 L214 346 M252 278 L258 346\" stroke=\"#1A1A2E\" stroke-width=\"16\" stroke-linecap=\"round\"/> <path d=\"M222 276 L214 346 M252 278 L258 346\" stroke=\"#8A7356\" stroke-width=\"7\" stroke-linecap=\"round\"/> <g transform=\"translate(9,9)\" fill=\"#1A1A2E\" stroke=\"#1A1A2E\" stroke-width=\"10\"><path d=\"M336 226 L386 252 L344 262 Z\"/><path d=\"M150 222 C150 182 210 162 270 168 C330 174 362 208 352 242 C342 272 292 286 232 282 C182 278 150 256 150 222 Z\"/><ellipse cx=\"128\" cy=\"92\" rx=\"40\" ry=\"30\"/></g> <g fill=\"#5E6E8E\" stroke=\"#1A1A2E\" stroke-width=\"10\" stroke-linejoin=\"round\" stroke-linecap=\"round\"><path d=\"M336 226 L386 252 L344 262 Z\"/></g> <g fill=\"#7D8FAE\" stroke=\"#1A1A2E\" stroke-width=\"10\" stroke-linejoin=\"round\" stroke-linecap=\"round\"><path d=\"M150 222 C150 182 210 162 270 168 C330 174 362 208 352 242 C342 272 292 286 232 282 C182 278 150 256 150 222 Z\"/></g> <path d=\"M210 196 C256 182 312 190 340 222 C306 246 252 248 214 236 Z\" fill=\"#5E6E8E\"/> <path d=\"M170 236 C176 252 186 262 200 268 M184 232 C190 248 200 258 214 264\" fill=\"none\" stroke=\"#C9D3E3\" stroke-width=\"7\" stroke-linecap=\"round\"/> <path d=\"M176 210 C138 176 172 136 152 108\" fill=\"none\" stroke=\"#1A1A2E\" stroke-width=\"38\" stroke-linecap=\"round\"/> <path d=\"M176 210 C138 176 172 136 152 108\" fill=\"none\" stroke=\"#B8C3D6\" stroke-width=\"22\" stroke-linecap=\"round\"/> <path d=\"M160 196 C148 180 150 160 156 144\" fill=\"none\" stroke=\"#5E4A3A\" stroke-width=\"5\" stroke-linecap=\"round\" stroke-dasharray=\"8 8\"/> <g fill=\"#F4F2F0\" stroke=\"#1A1A2E\" stroke-width=\"10\" stroke-linejoin=\"round\" stroke-linecap=\"round\"><ellipse cx=\"128\" cy=\"92\" rx=\"40\" ry=\"30\"/></g> <path d=\"M108 74 C130 66 160 70 168 82 C150 82 130 82 112 86 Z\" fill=\"#1A1A2E\"/> <path d=\"M160 80 C186 78 210 86 228 100\" fill=\"none\" stroke=\"#1A1A2E\" stroke-width=\"7\" stroke-linecap=\"round\"/> <circle cx=\"118\" cy=\"92\" r=\"22\" fill=\"#F4F2F0\"/><path d=\"M106 94 Q118 102.4 130 94\" fill=\"none\" stroke=\"#1A1A2E\" stroke-width=\"6\" stroke-linecap=\"round\"/> <ellipse cx=\"140\" cy=\"108\" rx=\"12\" ry=\"7\" fill=\"#FF6B9A\"/> <path d=\"M96 88 C80 86 46 92 8 102 C46 108 80 108 98 102 Z\" fill=\"#F2C94C\" stroke=\"#1A1A2E\" stroke-width=\"7\" stroke-linejoin=\"round\"/> <path d=\"M-10 330 Q40 318 90 330 T190 330 T290 330 T390 330 T490 330 V420 H-10 Z\" fill=\"#8FB3E8\" stroke=\"#1A1A2E\" stroke-width=\"8\"/> <path d=\"M60 360 q20 -10 40 0 M260 366 q20 -10 40 0\" fill=\"none\" stroke=\"#F7F5F2\" stroke-width=\"6\" stroke-linecap=\"round\"/> <path d=\"M250 64 H284 L250 98 H284\" fill=\"none\" stroke=\"#1A1A2E\" stroke-width=\"7.48\" stroke-linecap=\"round\" stroke-linejoin=\"round\"/><path d=\"M292 34 H314 L292 56 H314\" fill=\"none\" stroke=\"#1A1A2E\" stroke-width=\"6\" stroke-linecap=\"round\" stroke-linejoin=\"round\"/></g></svg>"
+      "open": "<svg xmlns=\"http://www.w3.org/2000/svg\" viewBox=\"0 0 400 400\"><rect width=\"400\" height=\"400\" fill=\"#FFE3EC\"/><g transform=\"rotate(0 200 220)\"><g transform=\"translate(44 38) scale(0.84)\"> <path d=\"M222 276 L214 346 M252 278 L258 346\" stroke=\"#1A1A2E\" stroke-width=\"16\" stroke-linecap=\"round\"/> <path d=\"M222 276 L214 346 M252 278 L258 346\" stroke=\"#8A7356\" stroke-width=\"7\" stroke-linecap=\"round\"/> <g transform=\"translate(9,9)\" fill=\"#1A1A2E\" stroke=\"#1A1A2E\" stroke-width=\"10\"><path d=\"M336 226 L386 252 L344 262 Z\"/><path d=\"M150 222 C150 182 210 162 270 168 C330 174 362 208 352 242 C342 272 292 286 232 282 C182 278 150 256 150 222 Z\"/><ellipse cx=\"128\" cy=\"92\" rx=\"40\" ry=\"30\"/></g> <g fill=\"#5E6E8E\" stroke=\"#1A1A2E\" stroke-width=\"10\" stroke-linejoin=\"round\" stroke-linecap=\"round\"><path d=\"M336 226 L386 252 L344 262 Z\"/></g> <g fill=\"#7D8FAE\" stroke=\"#1A1A2E\" stroke-width=\"10\" stroke-linejoin=\"round\" stroke-linecap=\"round\"><path d=\"M150 222 C150 182 210 162 270 168 C330 174 362 208 352 242 C342 272 292 286 232 282 C182 278 150 256 150 222 Z\"/></g> <path d=\"M210 196 C256 182 312 190 340 222 C306 246 252 248 214 236 Z\" fill=\"#5E6E8E\"/> <path d=\"M170 236 C176 252 186 262 200 268 M184 232 C190 248 200 258 214 264\" fill=\"none\" stroke=\"#C9D3E3\" stroke-width=\"7\" stroke-linecap=\"round\"/> <path d=\"M176 210 C138 176 172 136 152 108\" fill=\"none\" stroke=\"#1A1A2E\" stroke-width=\"38\" stroke-linecap=\"round\"/> <path d=\"M176 210 C138 176 172 136 152 108\" fill=\"none\" stroke=\"#B8C3D6\" stroke-width=\"22\" stroke-linecap=\"round\"/> <path d=\"M160 196 C148 180 150 160 156 144\" fill=\"none\" stroke=\"#5E4A3A\" stroke-width=\"5\" stroke-linecap=\"round\" stroke-dasharray=\"8 8\"/> <g fill=\"#F4F2F0\" stroke=\"#1A1A2E\" stroke-width=\"10\" stroke-linejoin=\"round\" stroke-linecap=\"round\"><ellipse cx=\"128\" cy=\"92\" rx=\"40\" ry=\"30\"/></g> <path d=\"M108 74 C130 66 160 70 168 82 C150 82 130 82 112 86 Z\" fill=\"#1A1A2E\"/> <path d=\"M160 80 C186 78 210 86 228 100\" fill=\"none\" stroke=\"#1A1A2E\" stroke-width=\"7\" stroke-linecap=\"round\"/> <circle cx=\"118\" cy=\"92\" r=\"22\" fill=\"#F4F2F0\"/><path d=\"M106 94 Q118 102.4 130 94\" fill=\"none\" stroke=\"#1A1A2E\" stroke-width=\"6\" stroke-linecap=\"round\"/> <ellipse cx=\"140\" cy=\"108\" rx=\"12\" ry=\"7\" fill=\"#FF6B9A\"/> <path d=\"M96 88 C80 86 46 92 8 102 C46 108 80 108 98 102 Z\" fill=\"#F2C94C\" stroke=\"#1A1A2E\" stroke-width=\"7\" stroke-linejoin=\"round\"/> </g> <path d=\"M-10 330 Q40 318 90 330 T190 330 T290 330 T390 330 T490 330 V420 H-10 Z\" fill=\"#8FB3E8\" stroke=\"#1A1A2E\" stroke-width=\"8\"/> <path d=\"M60 360 q20 -10 40 0 M260 366 q20 -10 40 0\" fill=\"none\" stroke=\"#F7F5F2\" stroke-width=\"6\" stroke-linecap=\"round\"/> <path d=\"M250 64 H284 L250 98 H284\" fill=\"none\" stroke=\"#1A1A2E\" stroke-width=\"7.48\" stroke-linecap=\"round\" stroke-linejoin=\"round\"/><path d=\"M292 34 H314 L292 56 H314\" fill=\"none\" stroke=\"#1A1A2E\" stroke-width=\"6\" stroke-linecap=\"round\" stroke-linejoin=\"round\"/></g></svg>"
     }
   ],
   "virginia-opossum": [

diff --git a/scripts/build_characters.js b/scripts/build_characters.js
@@ -749,7 +749,9 @@ ART.heron = {
     const tail = '<path d="M336 226 L386 252 L344 262 Z"/>';
     const head = '<ellipse cx="128" cy="92" rx="40" ry="30"/>';
     const neckLine = 'M176 210 C138 176 172 136 152 108';
-    return `<path d="M222 276 L214 346 M252 278 L258 346" stroke="${C.ink}" stroke-width="16" stroke-linecap="round"/>
+    // Drawn a little smaller and to the right, so the long beak stays inside the circle.
+    return `<g transform="translate(44 38) scale(0.84)">
+      <path d="M222 276 L214 346 M252 278 L258 346" stroke="${C.ink}" stroke-width="16" stroke-linecap="round"/>
       <path d="M222 276 L214 346 M252 278 L258 346" stroke="#8A7356" stroke-width="7" stroke-linecap="round"/>
       ${shadow([tail, body, head])}
       ${shape(tail, '#5E6E8E')}
@@ -766,6 +768,7 @@ ART.heron = {
       <ellipse cx="140" cy="108" rx="12" ry="7" fill="${C.pink}"/>
       <path d="M96 88 C80 86 46 92 8 102 C46 108 80 108 98 102 Z" fill="#F2C94C" stroke="${C.ink}" stroke-width="7" stroke-linejoin="round"/>
       ${m.snack ? fishSnack(24, 116) : ''}
+      </g>
       <path d="M-10 330 Q40 318 90 330 T190 330 T290 330 T390 330 T490 330 V420 H-10 Z" fill="#8FB3E8" stroke="${C.ink}" stroke-width="8"/>
       <path d="M60 360 q20 -10 40 0 M260 366 q20 -10 40 0" fill="none" stroke="#F7F5F2" stroke-width="6" stroke-linecap="round"/>
       ${UP_RIGHT(m)}`;

diff --git a/scripts/fetch_photos.py b/scripts/fetch_photos.py
@@ -30,7 +30,7 @@ EXTRA = 3
 SKIP_PHOTOS = {"monarch": [111043173], "european-starling": [365984069], "herring-gull": [343002826], "canada-goose": [247715952], "double-crested-cormorant": [173884349], "red-winged-blackbird": [275637604]}
 
 # Photos chosen by hand from the candidates: species -> photo id.
-PIN_PHOTOS = {"monarch": 45078365, "canada-goose": 606089370, "double-crested-cormorant": 512439682, "red-winged-blackbird": 617065992, "northern-cardinal": 637919105, "coopers-hawk": 12118242, "american-crow": 601452466, "common-eastern-bumble-bee": 442676579, "western-honey-bee": 481248861, "orb-weavers": 555702674}
+PIN_PHOTOS = {"great-blue-heron": 455960472, "monarch": 45078365, "canada-goose": 606089370, "double-crested-cormorant": 512439682, "red-winged-blackbird": 617065992, "northern-cardinal": 637919105, "coopers-hawk": 12118242, "american-crow": 601452466, "common-eastern-bumble-bee": 442676579, "western-honey-bee": 481248861, "orb-weavers": 555702674}
 
 # Extra photos passed over after a look at the contact sheet: species -> photo ids.
 SKIP_EXTRA = {"american-crow": [250510620, 53516042, 238951261], "black-crowned-night-heron": [565990241], "canada-goose": [37800057], "chimney-swift": [521705215, 384222882, 86950957], "common-eastern-bumble-bee": [17767241, 580690822, 327060771], "common-tern": [172940581], "dark-eyed-junco": [52405060], "double-crested-cormorant": [369136154, 255454786], "downy-woodpecker": [175723344, 634989842], "great-blue-heron": [134213334], "groundhog": [131610251], "mallard": [32774133], "monarch": [20535817, 1187530], "mute-swan": [13855998], "orb-weavers": [208881445, 324918466], "peregrine-falcon": [243839915, 35648686], "pond-slider": [5518581], "raccoon": [340830624, 292820239], "red-bellied-woodpecker": [657402075, 159444620], "red-tailed-hawk": [272209965, 55307530, 12266847], "red-winged-blackbird": [278246194], "ring-billed-gull": [57372242, 597860429], "virginia-opossum": [173131417], "western-honey-bee": [217394043, 485263880], "white-tailed-deer": [58166047, 24624866], "yellow-rumped-warbler": [252031775]}
